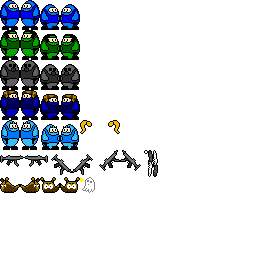
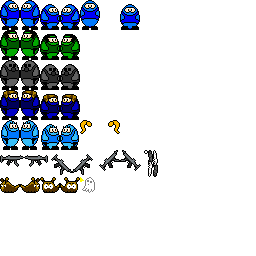
adding mouse support, player turn animation

Changed region(s): [[0.3125, 0.0, 0.4062, 0.125], [0.4688, 0.0, 0.5625, 0.125]]

diff --git a/engine/input.c b/engine/input.c
@@ -20,6 +20,11 @@
 #include "video.h"
 #include "command.h"
 
+
+int i_mousex = 0;
+int i_mousey = 0;
+
+
 static int  kwik = 0;
 static char kwik_presscmd;
 static char kwik_releasecmd;
@@ -31,7 +36,8 @@ static int  cbread = 0;
 static SDL_Joystick **joysticks;
 
 
-void inputinit() {
+void inputinit()
+{
   int i, numjoysticks;
   if( (numjoysticks=SDL_NumJoysticks())>0 ) {
     joysticks = malloc(sizeof(*joysticks)*numjoysticks);
@@ -45,14 +51,16 @@ void inputinit() {
 }
 
 
-void putcmd(char cmd) {
+void putcmd(char cmd)
+{
   if( !cmd || cbread%250==(cbwrite+1)%250 )
     return;
   cmdbuf[cbwrite] = cmd;
   cbwrite = (cbwrite+1)%250;
 }
 
-char getnextcmd() {
+char getnextcmd()
+{
   char cmd = cmdbuf[cbread];
   if( cmd==0 ) return 0;
   cmdbuf[cbread] = 0;
@@ -61,7 +69,8 @@ char getnextcmd() {
 }
 
 
-void kbinput(int press,SDL_keysym keysym) {
+void kbinput(int press,SDL_keysym keysym)
+{
   SDLKey sym = keysym.sym;
   SDLMod mod = keysym.mod;
   Uint16 unicode = keysym.unicode;
@@ -93,7 +102,8 @@ void kbinput(int press,SDL_keysym keysym) {
 }
 
 
-void joyinput(int press,SDL_JoyButtonEvent jbutton) {
+void joyinput(int press,SDL_JoyButtonEvent jbutton)
+{
   if( kwik && press )
     kwikbind( INP_JBUT, jbutton.button );
   else
@@ -101,7 +111,8 @@ void joyinput(int press,SDL_JoyButtonEvent jbutton) {
 }
 
 
-void axisinput(SDL_JoyAxisEvent jaxis) {
+void axisinput(SDL_JoyAxisEvent jaxis)
+{
   static char **axdats = NULL;
   static int size = 0;
   static const char POS_ON  = 1;
@@ -126,7 +137,26 @@ void axisinput(SDL_JoyAxisEvent jaxis) {
 }
 
 
-void readinput() {
+void mouseinput(int press,SDL_MouseButtonEvent mbutton)
+{
+  i_mousex = mbutton.x;
+  i_mousey = mbutton.y;
+  if( kwik )
+    kwikbind(INP_MBUT,mbutton.button);
+  else
+    putcmd( mod_key2cmd(INP_MBUT,mbutton.button,press) );
+}
+
+
+void mousemove(SDL_MouseMotionEvent mmotion)
+{
+  i_mousex = mmotion.x;
+  i_mousey = mmotion.y;
+}
+
+
+void readinput()
+{
   Uint32 infr = hotfr+1; //TODO: _should_ we always insert on hotfr+1?
   if( cmdfr<infr ) //this is the new cmdfr, so clear it, unless we already have cmds stored in the future!
     setcmdfr(infr);
@@ -141,21 +171,24 @@ void readinput() {
 }
 
 
-void input_bindsoon(int presscmd,int releasecmd) {
+void input_bindsoon(int presscmd,int releasecmd)
+{
   kwik_presscmd = presscmd;
   kwik_releasecmd = releasecmd;
   kwik = 1;
 }
 
-void kwikbind(int device,int sym) {
+void kwikbind(int device,int sym)
+{
   mod_keybind( device, sym, 0, kwik_releasecmd );
   mod_keybind( device, sym, 1, kwik_presscmd );
   kwik = 0;
   switch( device ) {
     case INP_KEYB: SJC_Write("Key #%d selected"                ,sym); break;
-    case INP_JBUT: SJC_Write("Button #%d selected"             ,sym); break;
+    case INP_JBUT: SJC_Write("Joy button #%d selected"         ,sym); break;
     case INP_JAXP: SJC_Write("Axis #%d (+) selected"           ,sym); break;
     case INP_JAXN: SJC_Write("Axis #%d (-) selected"           ,sym); break;
+    case INP_MBUT: SJC_Write("Mouse button #%d selected"       ,sym); break;
     default:       SJC_Write("Unkown device input #%d selected",sym); break;
   }
 }

diff --git a/mcdiddy/obj_player.c b/mcdiddy/obj_player.c
@@ -25,13 +25,13 @@ void obj_player_draw( int objid, OBJ_t *o )
   if( pl->goingu==pl->goingd ) gunshift = 0;
   SDL_Rect drect = (SDL_Rect){(pl->pos.x-10),(pl->pos.y-15),0,0};
   int z = drect.y + pl->hull[1].y;
-  int duck = pl->goingd>0 ? 40 : 0;
+  int xshift = (pl->goingd>0 ? 40 : 0) + (pl->turning ? 80 : (pl->facingr ? 0 : 20 ));
 
   if( pl->facingr ) {
     if( pl->model==4 ) //girl hair
       SJGL_BlitScaled(textures[TEX_PLAYER], &(SDL_Rect){ 80,120,20,15},
                                             &(SDL_Rect){drect.x-4,drect.y+(pl->goingd?4:0)+pl->gundown/7,0,0}, scale, z);
-    SJGL_BlitScaled(textures[TEX_PLAYER], &(SDL_Rect){ 0+duck, 0+pl->model*30,20,30}, &drect, scale, z);
+    SJGL_BlitScaled(textures[TEX_PLAYER], &(SDL_Rect){ xshift, 0+pl->model*30,20,30}, &drect, scale, z);
     drect = (SDL_Rect){(pl->pos.x- 5-pl->gunback),(pl->pos.y-10+pl->gundown/5),0,0};
     if( !pl->stabbing ) //gun
       SJGL_BlitScaled(textures[TEX_PLAYER], &(SDL_Rect){ 0+gunshift,150,24,27}, &drect, scale, z);
@@ -39,7 +39,7 @@ void obj_player_draw( int objid, OBJ_t *o )
     if( pl->model==4 ) //girl hair
       SJGL_BlitScaled(textures[TEX_PLAYER], &(SDL_Rect){100,120,20,15},
                                             &(SDL_Rect){drect.x+4,drect.y+(pl->goingd?4:0)+pl->gundown/7,0,0}, scale, z);
-    SJGL_BlitScaled(textures[TEX_PLAYER], &(SDL_Rect){20+duck, 0+pl->model*30,20,30}, &drect, scale, z);
+    SJGL_BlitScaled(textures[TEX_PLAYER], &(SDL_Rect){ xshift, 0+pl->model*30,20,30}, &drect, scale, z);
     drect = (SDL_Rect){(pl->pos.x-19+pl->gunback),(pl->pos.y-10+pl->gundown/5),0,0};
     if( !pl->stabbing ) //gun
       SJGL_BlitScaled(textures[TEX_PLAYER], &(SDL_Rect){24+gunshift,150,24,27}, &drect, scale, z);
@@ -60,9 +60,13 @@ void obj_player_adv( int objid, Uint32 a, Uint32 b, OBJ_t *oa, OBJ_t *ob )
   GHOST_t *gh = fr[b].objs[newme->ghost].data;
 
   switch( fr[b].cmds[gh->client].cmd ) {
-    case CMDT_1LEFT:  newme->goingl  = 1; newme->facingr = 0;  break;
+    case CMDT_1LEFT:  newme->goingl  = 1;
+                      if( newme->facingr) newme->turning = 3;
+                      newme->facingr = 0;                      break;
     case CMDT_0LEFT:  newme->goingl  = 0;                      break;
-    case CMDT_1RIGHT: newme->goingr  = 1; newme->facingr = 1;  break;
+    case CMDT_1RIGHT: newme->goingr  = 1;
+                      if(!newme->facingr) newme->turning = 3;
+                      newme->facingr = 1;                      break;
     case CMDT_0RIGHT: newme->goingr  = 0;                      break;
     case CMDT_1UP:    newme->goingu  = 1;                      break;
     case CMDT_0UP:    newme->goingu  = 0;                      break;
@@ -133,6 +137,8 @@ void obj_player_adv( int objid, Uint32 a, Uint32 b, OBJ_t *oa, OBJ_t *ob )
   else                           newme->pvel.x += 0.5f;
 
   // -- WALK --
+  if( newme->turning )
+    newme->turning--;
   if( newme->goingl ) {
     if(      newme->pvel.x>-2.0f ) newme->pvel.x += -1.0f;
     else if( newme->pvel.x>-3.0f ) newme->pvel.x  = -3.0f;

diff --git a/mcdiddy/mod.c b/mcdiddy/mod.c
@@ -252,27 +252,7 @@ void mod_loadsurfs(int quit)
 
 void mod_predraw(SDL_Surface *screen,Uint32 vidfr)
 {
-  //draw background
-  int i=0,j,k;
-  while(i<23) {
-    int step = (i<6||i==10||i==15) ? 1 : 4;
-    for(j=0;j<15;j++)
-      SJGL_BlitScaled(textures[TEX_WORLD], &(SDL_Rect){80,16,step*16,16}, &(SDL_Rect){i*16,j*16,0,0}, scale, 0);
-    i += step;
-  }
-  for(i=8;i<15;i++)
-    SJGL_BlitScaled(textures[TEX_WORLD], &(SDL_Rect){ 80,64,16,16}, &(SDL_Rect){ 9*16, i*16,0,0}, scale, 0); //low tall
-  SJGL_BlitScaled(  textures[TEX_WORLD], &(SDL_Rect){ 96,48,16,16}, &(SDL_Rect){ 9*16, 7*16,0,0}, scale, 0); //corner nw
-  for(i=10;i<16;i++)
-    SJGL_BlitScaled(textures[TEX_WORLD], &(SDL_Rect){112,32,16,16}, &(SDL_Rect){ i*16, 7*16,0,0}, scale, 0); //long horiz
-  SJGL_BlitScaled(  textures[TEX_WORLD], &(SDL_Rect){112,80,16,16}, &(SDL_Rect){11*16, 7*16,0,0}, scale, 0); //t-piece
-  SJGL_BlitScaled(  textures[TEX_WORLD], &(SDL_Rect){128,80,16,16}, &(SDL_Rect){16*16, 7*16,0,0}, scale, 0); //corner se
-  for(i=0;i<7;i++)
-    SJGL_BlitScaled(textures[TEX_WORLD], &(SDL_Rect){ 80,64,16,16}, &(SDL_Rect){16*16, i*16,0,0}, scale, 0); //high tall
-  SJGL_BlitScaled(  textures[TEX_WORLD], &(SDL_Rect){ 80,64,16,16}, &(SDL_Rect){11*16, 6*16,0,0}, scale, 0); //little pipe
-  SJGL_BlitScaled(  textures[TEX_WORLD], &(SDL_Rect){ 80,48,16,16}, &(SDL_Rect){11*16, 5*16,0,0}, scale, 0); //pipe end
-  SJGL_BlitScaled(  textures[TEX_WORLD], &(SDL_Rect){144,16,48,16}, &(SDL_Rect){12*16, 8*16,0,0}, scale, 0); //shadow
-  SJGL_BlitScaled(  textures[TEX_WORLD], &(SDL_Rect){ 80,32,16,16}, &(SDL_Rect){ 6*16, 7*16,0,0}, scale, 0); //end cap
+  int i,j,k;
 
   //draw context
   CONTEXT_t *co = fr[vidfr%maxframes].objs[1].data; //FIXME: get correct context!
@@ -280,7 +260,11 @@ void mod_predraw(SDL_Surface *screen,Uint32 vidfr)
     for( j=0; j<co->y; j++ )
       for( i=0; i<co->x; i++ ) {
         int pos = co->x*co->y*k + co->x*j + i;
-        int tile = co->map[ pos ].data[0];
+        int tile;
+        if( co->dmap[ pos ].flags & CBF_NULL )
+          tile = co->map[  pos ].data[0];
+        else
+          tile = co->dmap[ pos ].data[0];
 
         SJGL_BlitScaled( textures[TEX_WORLD], &(SDL_Rect){tile*16,0,16,16},
                                               &(SDL_Rect){i*16,j*16,0,0},

diff --git a/engine/main.c b/engine/main.c
@@ -104,14 +104,16 @@ int main(int argc,char **argv) {
     ticks = newticks;
     metafr = ticks/ticksaframe + frameoffset;
     while( SDL_PollEvent(&event) ) switch(event.type) {
-      case SDL_VIDEOEXPOSE:                                                     break;
-      case SDL_VIDEORESIZE:   setvideosoon(event.resize.w,event.resize.h,0,10); break;
-      case SDL_KEYDOWN:       kbinput(  1, event.key.keysym );                  break;
-      case SDL_KEYUP:         kbinput(  0, event.key.keysym );                  break;
-      case SDL_JOYBUTTONDOWN: joyinput( 1, event.jbutton );                     break;
-      case SDL_JOYBUTTONUP:   joyinput( 0, event.jbutton );                     break;
-      case SDL_JOYAXISMOTION: axisinput( event.jaxis );                         break;
-      case SDL_QUIT:          cleanup();                                        break;
+      case SDL_VIDEOEXPOSE:                                                         break;
+      case SDL_VIDEORESIZE:     setvideosoon(event.resize.w,event.resize.h,0,10);   break;
+      case SDL_KEYDOWN:         kbinput(    1, event.key.keysym );                  break;
+      case SDL_KEYUP:           kbinput(    0, event.key.keysym );                  break;
+      case SDL_JOYBUTTONDOWN:   joyinput(   1, event.jbutton );                     break;
+      case SDL_JOYBUTTONUP:     joyinput(   0, event.jbutton );                     break;
+      case SDL_JOYAXISMOTION:   axisinput(  event.jaxis );                          break;
+      case SDL_MOUSEBUTTONDOWN: mouseinput( 1, event.button );                      break;
+      case SDL_MOUSEBUTTONUP:   mouseinput( 0, event.button );                      break;
+      case SDL_QUIT:            cleanup();                                          break;
     }
     idle_time += SDL_GetTicks() - idle_start;
     readinput();

diff --git a/engine/input.h b/engine/input.h
@@ -10,12 +10,19 @@
 #define INP_JBUT 2 //joystick button
 #define INP_JAXP 3 //joystick axis, positive
 #define INP_JAXN 4 //joystick axis, negative
+#define INP_MBUT 5 //mouse button
+
+
+extern int i_mousex; //last seen mouse position
+extern int i_mousey;
 
 
 void inputinit();
 void kbinput(int press,SDL_keysym keysym);
 void joyinput(int press,SDL_JoyButtonEvent jbutton);
 void axisinput(SDL_JoyAxisEvent jaxis);
+void mouseinput(int press,SDL_MouseButtonEvent mbutton);
+void mousemove(SDL_MouseMotionEvent mmotion);
 void readinput();
 void input_bindsoon(int presscmd,int releasecmd);
 void kwikbind(int device,int sym);

diff --git a/mcdiddy/obj_mother.c b/mcdiddy/obj_mother.c
@@ -57,6 +57,7 @@ void obj_mother_adv( int objid, Uint32 a, Uint32 b, OBJ_t *oa, OBJ_t *ob )
     pl->projectiles = 0;
     pl->grounded = 0;
     pl->facingr = 1;
+    pl->turning = 0;
     pl->stabbing = 0;
     pl->hovertime = 0;
   } //end for i<maxclients

diff --git a/mcdiddy/obj_.h b/mcdiddy/obj_.h
@@ -76,6 +76,7 @@ typedef struct{
   char gunback,gundown;
   char grounded;
   char facingr;
+  char turning;
   char stabbing;
   char hovertime;
 } PLAYER_t;
